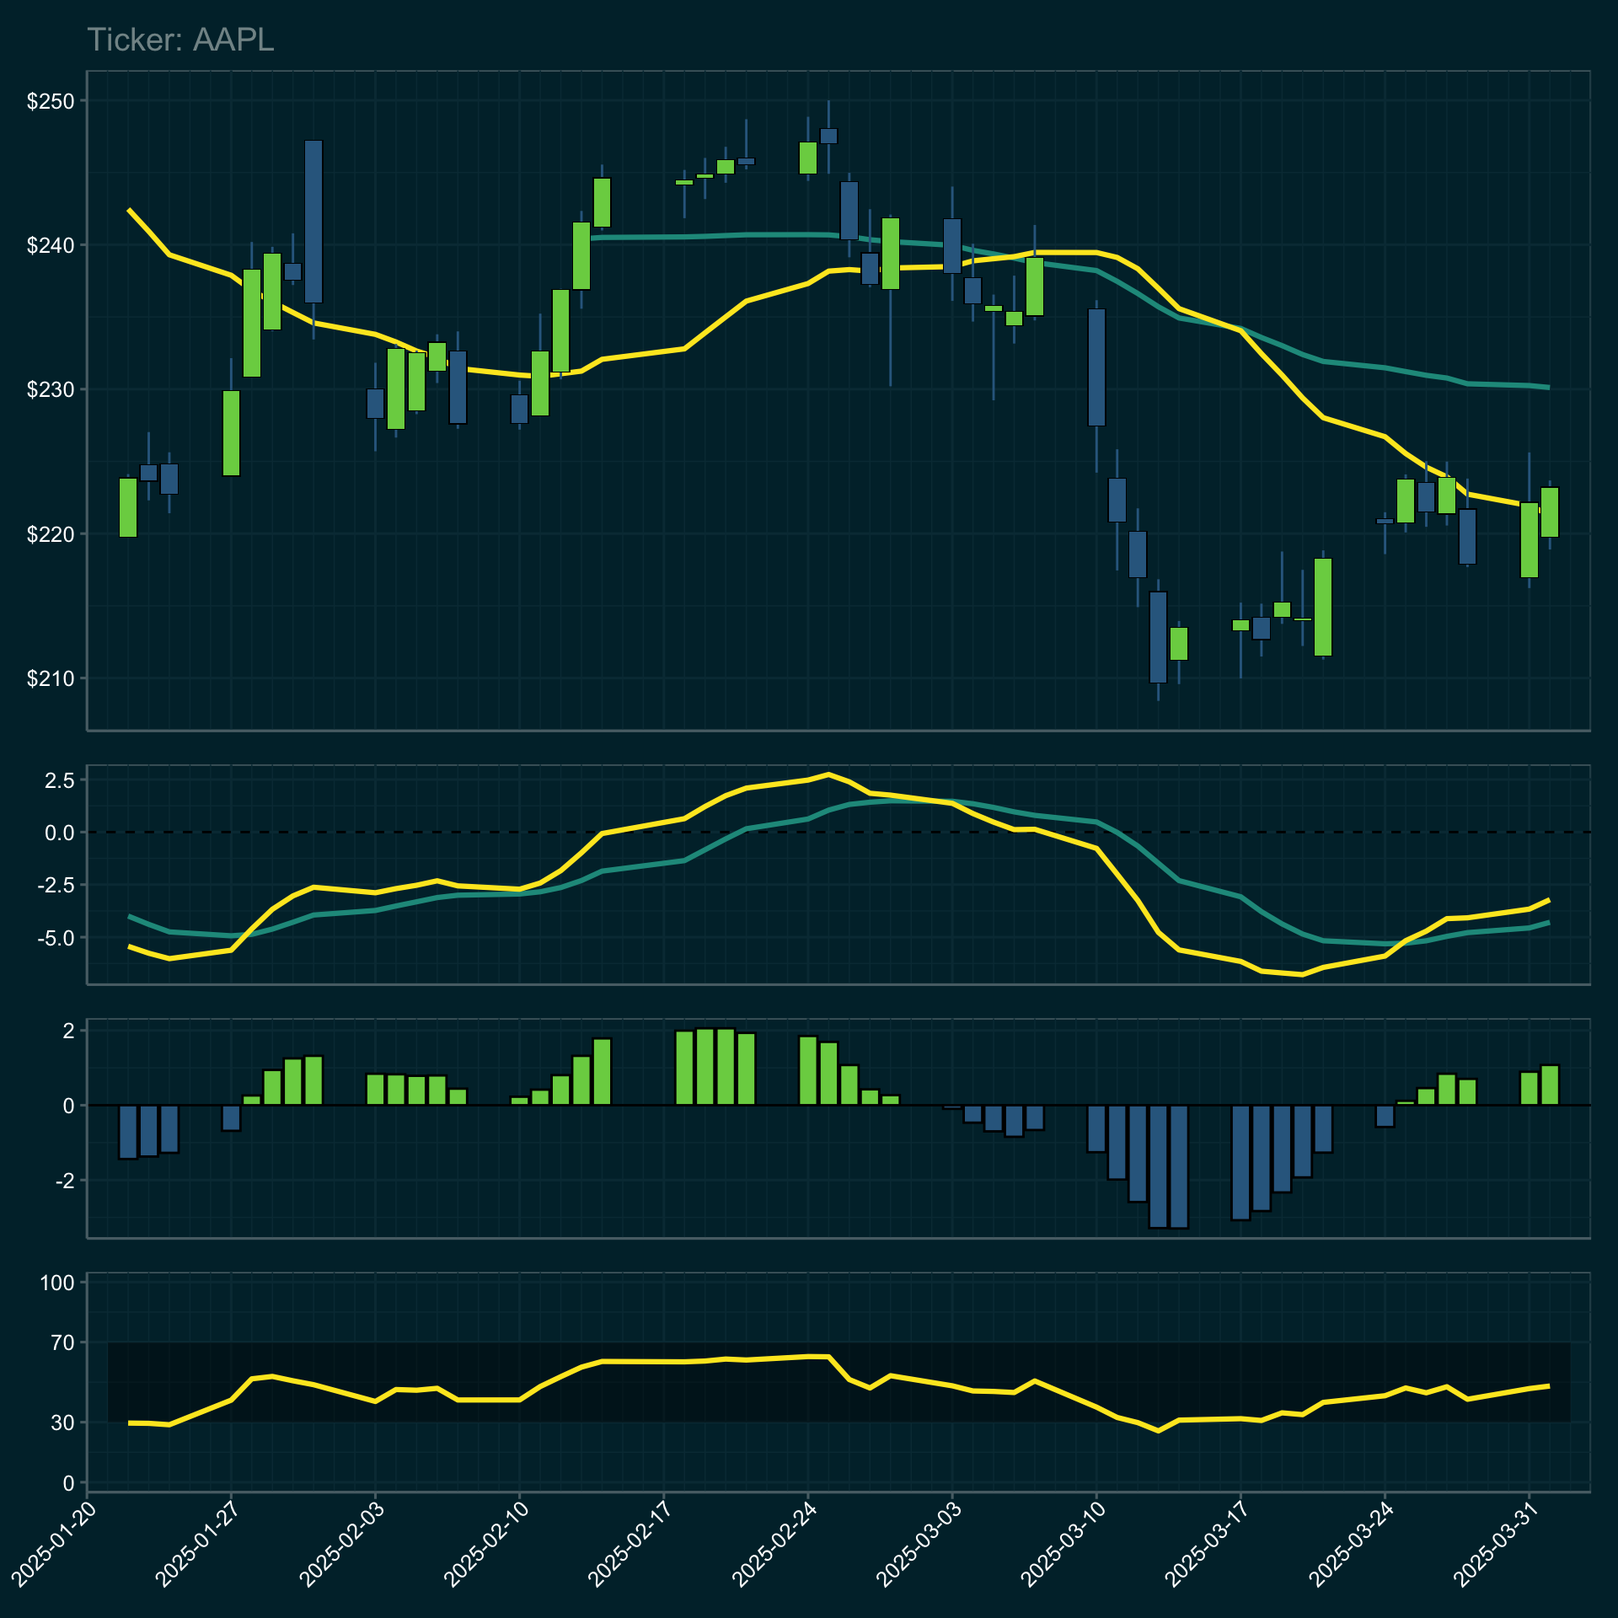
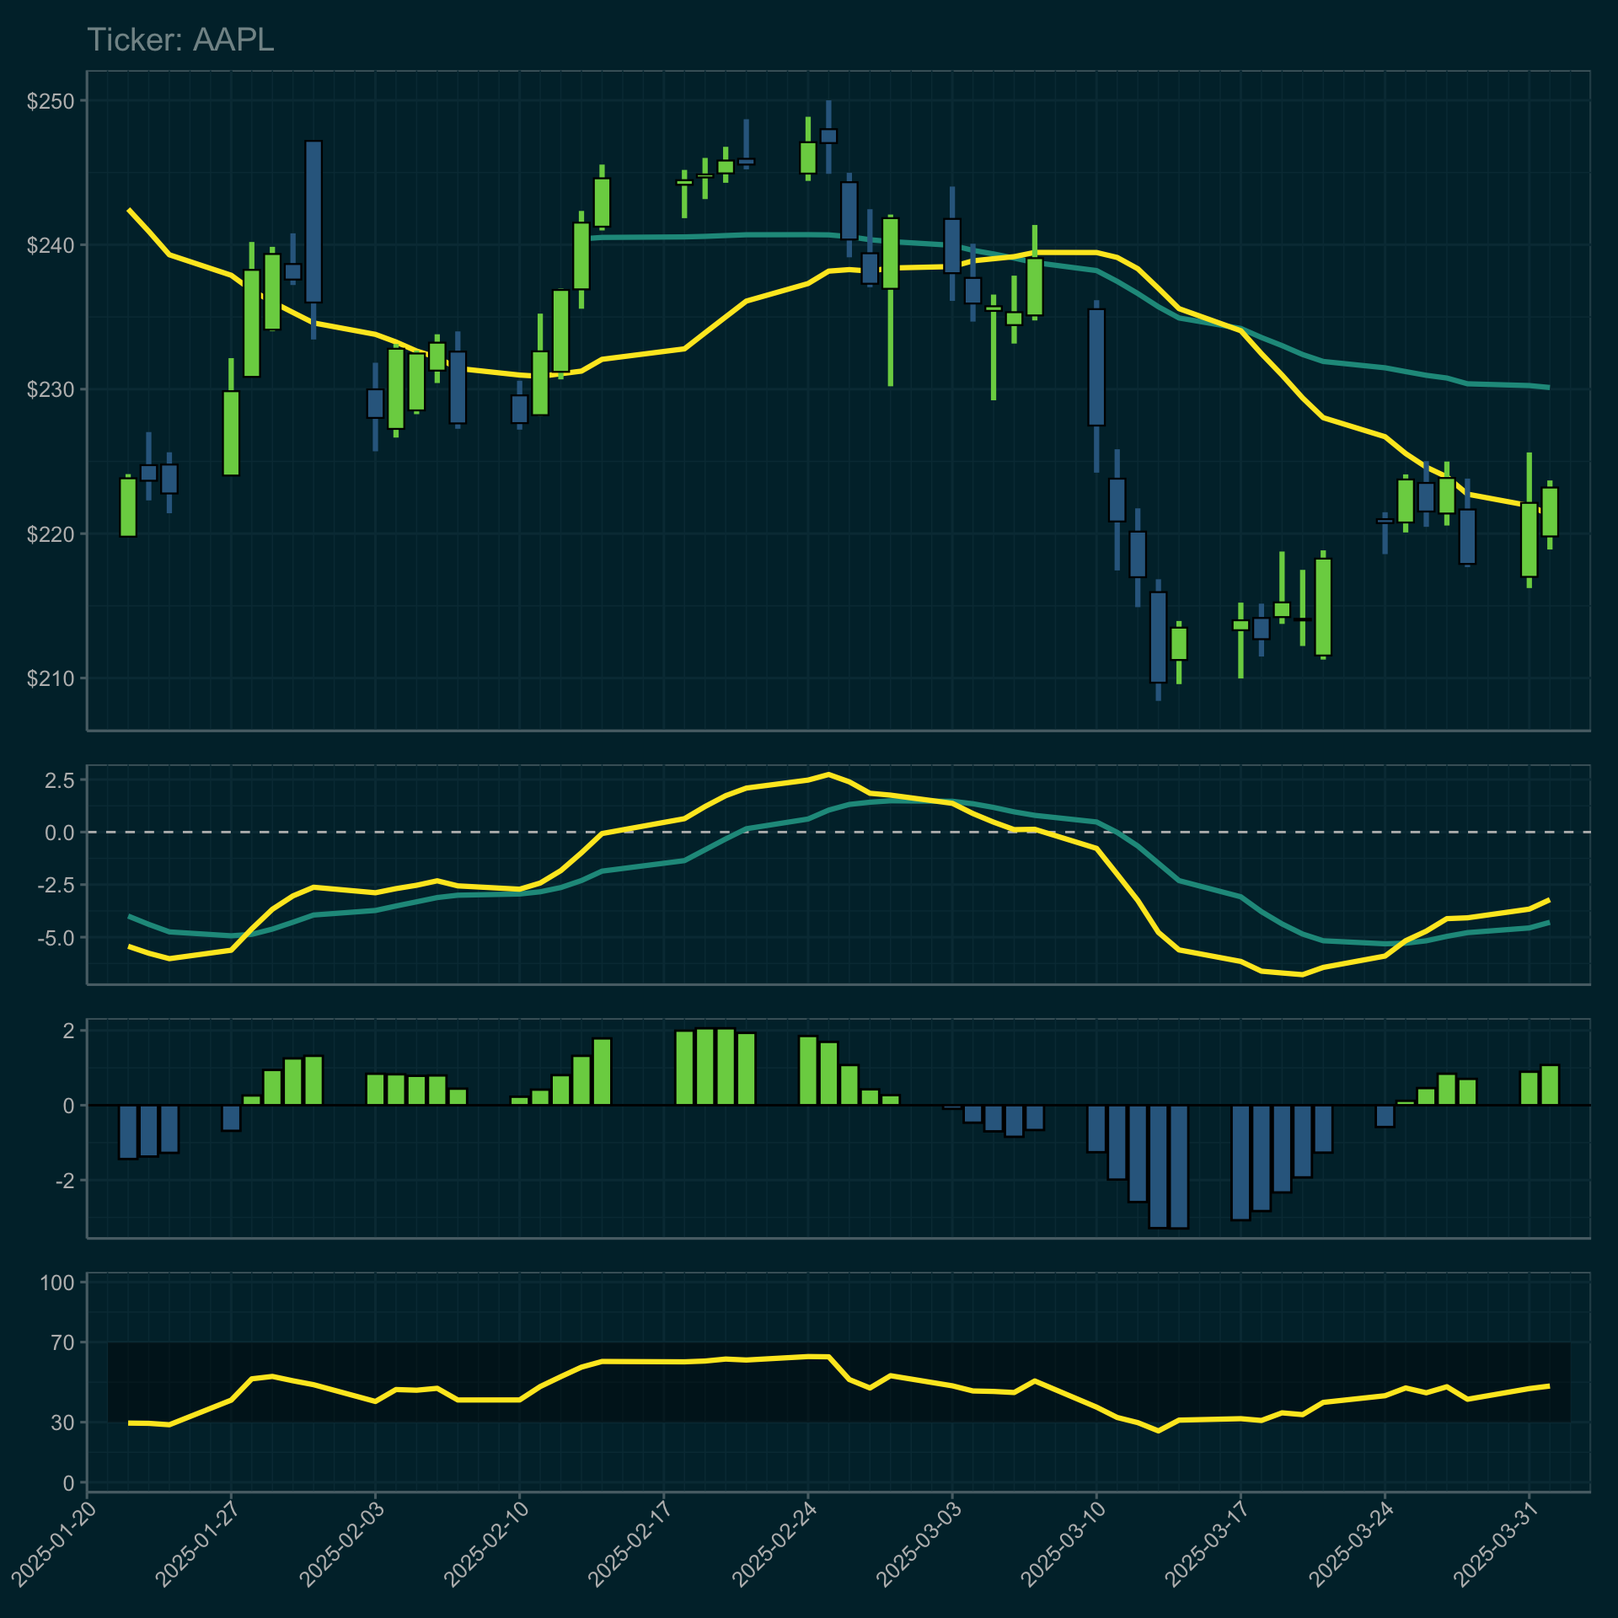
color updates

diff --git a/docs/posts/2025-04-01-Tech-Invest-Pipeline-Part1/index.html b/docs/posts/2025-04-01-Tech-Invest-Pipeline-Part1/index.html
@@ -384,7 +384,7 @@ pre > code.sourceCode > span > a:first-child::before { text-decoration: underlin
 <span id="cb4-12"><a href="#cb4-12" aria-hidden="true" tabindex="-1"></a>theme<span class="ot">&lt;-</span><span class="fu">theme_set</span>(<span class="fu">theme_solarized</span>(<span class="at">light=</span><span class="cn">FALSE</span>))<span class="sc">+</span></span>
 <span id="cb4-13"><a href="#cb4-13" aria-hidden="true" tabindex="-1"></a>    <span class="fu">theme_update</span>(</span>
 <span id="cb4-14"><a href="#cb4-14" aria-hidden="true" tabindex="-1"></a>        <span class="at">axis.text.x=</span><span class="fu">element_blank</span>(),<span class="at">axis.ticks.x=</span><span class="fu">element_blank</span>(),</span>
-<span id="cb4-15"><a href="#cb4-15" aria-hidden="true" tabindex="-1"></a>        <span class="at">axis.text.y=</span><span class="fu">element_text</span>(<span class="at">color=</span><span class="st">"#ffffff"</span>)</span>
+<span id="cb4-15"><a href="#cb4-15" aria-hidden="true" tabindex="-1"></a>        <span class="at">axis.text.y=</span><span class="fu">element_text</span>(<span class="at">color=</span><span class="st">"#bbbbbb"</span>)</span>
 <span id="cb4-16"><a href="#cb4-16" aria-hidden="true" tabindex="-1"></a>    )</span>
 <span id="cb4-17"><a href="#cb4-17" aria-hidden="true" tabindex="-1"></a></span>
 <span id="cb4-18"><a href="#cb4-18" aria-hidden="true" tabindex="-1"></a>g2<span class="ot">&lt;-</span><span class="fu">ggplot</span>(py<span class="sc">$</span>df,<span class="fu">aes</span>(<span class="at">x=</span><span class="fu">as_date</span>(date)))<span class="sc">+</span></span>
@@ -405,7 +405,7 @@ pre > code.sourceCode > span > a:first-child::before { text-decoration: underlin
 <span id="cb4-33"><a href="#cb4-33" aria-hidden="true" tabindex="-1"></a>l<span class="ot">&lt;-</span><span class="fu">layer_scales</span>(g2)<span class="sc">$</span>x<span class="sc">$</span>limits[[<span class="dv">1</span>]] <span class="sc">%&gt;%</span> <span class="fu">as_date</span>()</span>
 <span id="cb4-34"><a href="#cb4-34" aria-hidden="true" tabindex="-1"></a></span>
 <span id="cb4-35"><a href="#cb4-35" aria-hidden="true" tabindex="-1"></a>g1<span class="ot">&lt;-</span><span class="fu">ggplot</span>(py<span class="sc">$</span>df,<span class="fu">aes</span>(<span class="at">x=</span><span class="fu">as_date</span>(date)))<span class="sc">+</span></span>
-<span id="cb4-36"><a href="#cb4-36" aria-hidden="true" tabindex="-1"></a>    <span class="fu">geom_hline</span>(<span class="at">yintercept=</span><span class="dv">0</span>,<span class="at">linetype=</span><span class="dv">2</span>,<span class="at">linewidth=</span>.<span class="dv">5</span>)<span class="sc">+</span></span>
+<span id="cb4-36"><a href="#cb4-36" aria-hidden="true" tabindex="-1"></a>    <span class="fu">geom_hline</span>(<span class="at">yintercept=</span><span class="dv">0</span>,<span class="at">linetype=</span><span class="dv">2</span>,<span class="at">linewidth=</span>.<span class="dv">5</span>,<span class="at">color=</span><span class="st">"#bbbbbb"</span>)<span class="sc">+</span></span>
 <span id="cb4-37"><a href="#cb4-37" aria-hidden="true" tabindex="-1"></a>    <span class="fu">geom_line</span>(<span class="fu">aes</span>(<span class="at">y=</span>signal),<span class="at">color=</span>coldline,<span class="at">linewidth=</span><span class="fl">1.1</span>)<span class="sc">+</span></span>
 <span id="cb4-38"><a href="#cb4-38" aria-hidden="true" tabindex="-1"></a>    <span class="fu">geom_line</span>(<span class="fu">aes</span>(<span class="at">y=</span>MACD),<span class="at">color=</span>hotline,<span class="at">linewidth=</span><span class="fl">1.1</span>)<span class="sc">+</span></span>
 <span id="cb4-39"><a href="#cb4-39" aria-hidden="true" tabindex="-1"></a>    <span class="fu">scale_x_date</span>(</span>
@@ -420,7 +420,7 @@ pre > code.sourceCode > span > a:first-child::before { text-decoration: underlin
 <span id="cb4-48"><a href="#cb4-48" aria-hidden="true" tabindex="-1"></a></span>
 <span id="cb4-49"><a href="#cb4-49" aria-hidden="true" tabindex="-1"></a>g3<span class="ot">&lt;-</span><span class="fu">ggplot</span>(py<span class="sc">$</span>df,<span class="fu">aes</span>(<span class="at">x=</span><span class="fu">as_date</span>(date)))<span class="sc">+</span></span>
 <span id="cb4-50"><a href="#cb4-50" aria-hidden="true" tabindex="-1"></a>    <span class="fu">theme_update</span>(</span>
-<span id="cb4-51"><a href="#cb4-51" aria-hidden="true" tabindex="-1"></a>        <span class="at">axis.text.x=</span><span class="fu">element_text</span>(<span class="at">angle=</span><span class="dv">45</span>,<span class="at">hjust=</span><span class="dv">1</span>,<span class="at">vjust=</span><span class="dv">1</span>,<span class="at">color=</span><span class="st">"#ffffff"</span>),</span>
+<span id="cb4-51"><a href="#cb4-51" aria-hidden="true" tabindex="-1"></a>        <span class="at">axis.text.x=</span><span class="fu">element_text</span>(<span class="at">angle=</span><span class="dv">45</span>,<span class="at">hjust=</span><span class="dv">1</span>,<span class="at">vjust=</span><span class="dv">1</span>,<span class="at">color=</span><span class="st">"#bbbbbb"</span>),</span>
 <span id="cb4-52"><a href="#cb4-52" aria-hidden="true" tabindex="-1"></a>        <span class="at">axis.ticks.x=</span><span class="fu">element_line</span>(),</span>
 <span id="cb4-53"><a href="#cb4-53" aria-hidden="true" tabindex="-1"></a>    )<span class="sc">+</span></span>
 <span id="cb4-54"><a href="#cb4-54" aria-hidden="true" tabindex="-1"></a>    <span class="fu">annotate</span>(<span class="at">geom=</span><span class="st">"rect"</span>,<span class="at">fill=</span><span class="st">"#000000"</span>,<span class="at">xmin=</span>l,<span class="at">xmax=</span>u,<span class="at">ymin=</span><span class="dv">30</span>,<span class="at">ymax=</span><span class="dv">70</span>,<span class="at">alpha=</span><span class="fl">0.4</span>)<span class="sc">+</span></span>
@@ -442,37 +442,39 @@ pre > code.sourceCode > span > a:first-child::before { text-decoration: underlin
 <span id="cb4-70"><a href="#cb4-70" aria-hidden="true" tabindex="-1"></a>p<span class="ot">&lt;-</span><span class="fu">ggplot</span>(py<span class="sc">$</span>df,<span class="fu">aes</span>(<span class="at">x=</span><span class="fu">as_date</span>(date)))<span class="sc">+</span></span>
 <span id="cb4-71"><a href="#cb4-71" aria-hidden="true" tabindex="-1"></a>    <span class="fu">geom_line</span>(<span class="fu">aes</span>(<span class="at">y=</span>sma_l),<span class="at">color=</span>coldline,<span class="at">linewidth=</span><span class="fl">1.1</span>)<span class="sc">+</span></span>
 <span id="cb4-72"><a href="#cb4-72" aria-hidden="true" tabindex="-1"></a>    <span class="fu">geom_line</span>(<span class="fu">aes</span>(<span class="at">y=</span>sma_s),<span class="at">color=</span>hotline,<span class="at">linewidth=</span><span class="fl">1.1</span>)<span class="sc">+</span></span>
-<span id="cb4-73"><a href="#cb4-73" aria-hidden="true" tabindex="-1"></a>    <span class="fu">geom_linerange</span>(<span class="fu">aes</span>(<span class="at">ymax=</span>high,<span class="at">ymin=</span>low),<span class="at">color=</span>r)<span class="sc">+</span></span>
-<span id="cb4-74"><a href="#cb4-74" aria-hidden="true" tabindex="-1"></a>    <span class="fu">geom_tile</span>(</span>
-<span id="cb4-75"><a href="#cb4-75" aria-hidden="true" tabindex="-1"></a>        <span class="fu">aes</span>(</span>
-<span id="cb4-76"><a href="#cb4-76" aria-hidden="true" tabindex="-1"></a>            <span class="at">y=</span>candle_mid,</span>
-<span id="cb4-77"><a href="#cb4-77" aria-hidden="true" tabindex="-1"></a>            <span class="at">height=</span>(candle_high<span class="sc">-</span>candle_low)<span class="sc">+</span>.<span class="dv">14</span>,</span>
-<span id="cb4-78"><a href="#cb4-78" aria-hidden="true" tabindex="-1"></a>            <span class="at">width=</span>.<span class="dv">94</span>,</span>
-<span id="cb4-79"><a href="#cb4-79" aria-hidden="true" tabindex="-1"></a>        ),</span>
-<span id="cb4-80"><a href="#cb4-80" aria-hidden="true" tabindex="-1"></a>        <span class="at">fill=</span><span class="st">"#000000"</span>, </span>
-<span id="cb4-81"><a href="#cb4-81" aria-hidden="true" tabindex="-1"></a>    )<span class="sc">+</span></span>
+<span id="cb4-73"><a href="#cb4-73" aria-hidden="true" tabindex="-1"></a>    <span class="fu">geom_linerange</span>(<span class="fu">aes</span>(<span class="at">ymax=</span>high,<span class="at">ymin=</span>low,<span class="at">color=</span><span class="fu">factor</span>(candle_color)),<span class="at">linewidth=</span><span class="fl">1.1</span>)<span class="sc">+</span></span>
+<span id="cb4-74"><a href="#cb4-74" aria-hidden="true" tabindex="-1"></a>    <span class="co"># geom_tile(</span></span>
+<span id="cb4-75"><a href="#cb4-75" aria-hidden="true" tabindex="-1"></a>    <span class="co">#     aes(</span></span>
+<span id="cb4-76"><a href="#cb4-76" aria-hidden="true" tabindex="-1"></a>    <span class="co">#         y=candle_mid,</span></span>
+<span id="cb4-77"><a href="#cb4-77" aria-hidden="true" tabindex="-1"></a>    <span class="co">#         height=(candle_high-candle_low)+.2,</span></span>
+<span id="cb4-78"><a href="#cb4-78" aria-hidden="true" tabindex="-1"></a>    <span class="co">#         width=1,</span></span>
+<span id="cb4-79"><a href="#cb4-79" aria-hidden="true" tabindex="-1"></a>    <span class="co">#     ),</span></span>
+<span id="cb4-80"><a href="#cb4-80" aria-hidden="true" tabindex="-1"></a>    <span class="co">#     fill="#000000", </span></span>
+<span id="cb4-81"><a href="#cb4-81" aria-hidden="true" tabindex="-1"></a>    <span class="co"># )+</span></span>
 <span id="cb4-82"><a href="#cb4-82" aria-hidden="true" tabindex="-1"></a>    <span class="fu">geom_tile</span>(</span>
 <span id="cb4-83"><a href="#cb4-83" aria-hidden="true" tabindex="-1"></a>        <span class="fu">aes</span>(</span>
 <span id="cb4-84"><a href="#cb4-84" aria-hidden="true" tabindex="-1"></a>            <span class="at">y=</span>candle_mid,</span>
 <span id="cb4-85"><a href="#cb4-85" aria-hidden="true" tabindex="-1"></a>            <span class="at">height=</span>candle_high<span class="sc">-</span>candle_low,</span>
-<span id="cb4-86"><a href="#cb4-86" aria-hidden="true" tabindex="-1"></a>            <span class="at">width=</span>.<span class="dv">8</span>,</span>
-<span id="cb4-87"><a href="#cb4-87" aria-hidden="true" tabindex="-1"></a>            <span class="at">fill=</span><span class="fu">factor</span>(candle_color),</span>
-<span id="cb4-88"><a href="#cb4-88" aria-hidden="true" tabindex="-1"></a>        ),</span>
-<span id="cb4-89"><a href="#cb4-89" aria-hidden="true" tabindex="-1"></a>    )<span class="sc">+</span></span>
-<span id="cb4-90"><a href="#cb4-90" aria-hidden="true" tabindex="-1"></a>    <span class="fu">scale_x_date</span>(</span>
-<span id="cb4-91"><a href="#cb4-91" aria-hidden="true" tabindex="-1"></a>        <span class="at">limits=</span><span class="fu">c</span>(l,u),</span>
-<span id="cb4-92"><a href="#cb4-92" aria-hidden="true" tabindex="-1"></a>        <span class="at">date_breaks=</span><span class="st">"1 week"</span>,</span>
-<span id="cb4-93"><a href="#cb4-93" aria-hidden="true" tabindex="-1"></a>        <span class="at">date_minor_breaks=</span><span class="st">"1 day"</span>,</span>
-<span id="cb4-94"><a href="#cb4-94" aria-hidden="true" tabindex="-1"></a>        <span class="at">expand=</span><span class="fu">expansion</span>(<span class="at">add=</span><span class="dv">1</span>),</span>
-<span id="cb4-95"><a href="#cb4-95" aria-hidden="true" tabindex="-1"></a>    )<span class="sc">+</span></span>
-<span id="cb4-96"><a href="#cb4-96" aria-hidden="true" tabindex="-1"></a>    <span class="fu">scale_fill_manual</span>(<span class="at">values=</span><span class="fu">c</span>(r,bg))<span class="sc">+</span></span>
-<span id="cb4-97"><a href="#cb4-97" aria-hidden="true" tabindex="-1"></a>    <span class="fu">scale_color_manual</span>(<span class="at">values=</span><span class="fu">c</span>(r,bg))<span class="sc">+</span></span>
-<span id="cb4-98"><a href="#cb4-98" aria-hidden="true" tabindex="-1"></a>    <span class="fu">scale_y_continuous</span>(<span class="at">labels=</span>scales<span class="sc">::</span>dollar)<span class="sc">+</span></span>
-<span id="cb4-99"><a href="#cb4-99" aria-hidden="true" tabindex="-1"></a>    <span class="fu">labs</span>(<span class="at">y=</span><span class="cn">NULL</span>,<span class="at">x=</span><span class="cn">NULL</span>)<span class="sc">+</span></span>
-<span id="cb4-100"><a href="#cb4-100" aria-hidden="true" tabindex="-1"></a>    <span class="fu">ggtitle</span>(<span class="fu">str_glue</span>(<span class="st">"Ticker: {params$ticker}"</span>))<span class="sc">+</span></span>
-<span id="cb4-101"><a href="#cb4-101" aria-hidden="true" tabindex="-1"></a>    <span class="fu">guides</span>(<span class="at">color=</span><span class="st">"none"</span>,<span class="at">fill=</span><span class="st">"none"</span>)</span>
-<span id="cb4-102"><a href="#cb4-102" aria-hidden="true" tabindex="-1"></a></span>
-<span id="cb4-103"><a href="#cb4-103" aria-hidden="true" tabindex="-1"></a>p <span class="sc">/</span> g1 <span class="sc">/</span> g2 <span class="sc">/</span> g3 <span class="sc">+</span> <span class="fu">plot_layout</span>(<span class="at">nrow=</span><span class="dv">4</span>,<span class="at">heights=</span><span class="fu">c</span>(<span class="dv">3</span>,<span class="dv">1</span>,<span class="dv">1</span>,<span class="dv">1</span>))</span></code><button title="Copy to Clipboard" class="code-copy-button"><i class="bi"></i></button></pre></div>
+<span id="cb4-86"><a href="#cb4-86" aria-hidden="true" tabindex="-1"></a>            <span class="at">fill=</span><span class="fu">factor</span>(candle_color),</span>
+<span id="cb4-87"><a href="#cb4-87" aria-hidden="true" tabindex="-1"></a>        ),</span>
+<span id="cb4-88"><a href="#cb4-88" aria-hidden="true" tabindex="-1"></a>        <span class="at">width=</span>.<span class="dv">8</span>,</span>
+<span id="cb4-89"><a href="#cb4-89" aria-hidden="true" tabindex="-1"></a>        <span class="at">linewidth=</span>.<span class="dv">4</span>,</span>
+<span id="cb4-90"><a href="#cb4-90" aria-hidden="true" tabindex="-1"></a>        <span class="at">color=</span><span class="st">"#000000"</span>,</span>
+<span id="cb4-91"><a href="#cb4-91" aria-hidden="true" tabindex="-1"></a>    )<span class="sc">+</span></span>
+<span id="cb4-92"><a href="#cb4-92" aria-hidden="true" tabindex="-1"></a>    <span class="fu">scale_x_date</span>(</span>
+<span id="cb4-93"><a href="#cb4-93" aria-hidden="true" tabindex="-1"></a>        <span class="at">limits=</span><span class="fu">c</span>(l,u),</span>
+<span id="cb4-94"><a href="#cb4-94" aria-hidden="true" tabindex="-1"></a>        <span class="at">date_breaks=</span><span class="st">"1 week"</span>,</span>
+<span id="cb4-95"><a href="#cb4-95" aria-hidden="true" tabindex="-1"></a>        <span class="at">date_minor_breaks=</span><span class="st">"1 day"</span>,</span>
+<span id="cb4-96"><a href="#cb4-96" aria-hidden="true" tabindex="-1"></a>        <span class="at">expand=</span><span class="fu">expansion</span>(<span class="at">add=</span><span class="dv">1</span>),</span>
+<span id="cb4-97"><a href="#cb4-97" aria-hidden="true" tabindex="-1"></a>    )<span class="sc">+</span></span>
+<span id="cb4-98"><a href="#cb4-98" aria-hidden="true" tabindex="-1"></a>    <span class="fu">scale_fill_manual</span>(<span class="at">values=</span><span class="fu">c</span>(r,bg))<span class="sc">+</span></span>
+<span id="cb4-99"><a href="#cb4-99" aria-hidden="true" tabindex="-1"></a>    <span class="fu">scale_color_manual</span>(<span class="at">values=</span><span class="fu">c</span>(r,bg))<span class="sc">+</span></span>
+<span id="cb4-100"><a href="#cb4-100" aria-hidden="true" tabindex="-1"></a>    <span class="fu">scale_y_continuous</span>(<span class="at">labels=</span>scales<span class="sc">::</span>dollar)<span class="sc">+</span></span>
+<span id="cb4-101"><a href="#cb4-101" aria-hidden="true" tabindex="-1"></a>    <span class="fu">labs</span>(<span class="at">y=</span><span class="cn">NULL</span>,<span class="at">x=</span><span class="cn">NULL</span>)<span class="sc">+</span></span>
+<span id="cb4-102"><a href="#cb4-102" aria-hidden="true" tabindex="-1"></a>    <span class="fu">ggtitle</span>(<span class="fu">str_glue</span>(<span class="st">"Ticker: {params$ticker}"</span>))<span class="sc">+</span></span>
+<span id="cb4-103"><a href="#cb4-103" aria-hidden="true" tabindex="-1"></a>    <span class="fu">guides</span>(<span class="at">color=</span><span class="st">"none"</span>,<span class="at">fill=</span><span class="st">"none"</span>)</span>
+<span id="cb4-104"><a href="#cb4-104" aria-hidden="true" tabindex="-1"></a></span>
+<span id="cb4-105"><a href="#cb4-105" aria-hidden="true" tabindex="-1"></a>p <span class="sc">/</span> g1 <span class="sc">/</span> g2 <span class="sc">/</span> g3 <span class="sc">+</span> <span class="fu">plot_layout</span>(<span class="at">nrow=</span><span class="dv">4</span>,<span class="at">heights=</span><span class="fu">c</span>(<span class="dv">3</span>,<span class="dv">1</span>,<span class="dv">1</span>,<span class="dv">1</span>))</span></code><button title="Copy to Clipboard" class="code-copy-button"><i class="bi"></i></button></pre></div>
 <div class="cell-output-display">
 <div>
 <figure class="figure">

diff --git a/docs/posts.html b/docs/posts.html
@@ -198,7 +198,7 @@ window.Quarto = {
 
 <div class="quarto-listing quarto-listing-container-default" id="listing-listing">
 <div class="list quarto-listing-default">
-<div class="quarto-post image-right" data-index="0" data-categories="UiUyQ1B5dGhvbiUyQ0ludmVzdGluZw==" data-listing-date-sort="1743487200000" data-listing-file-modified-sort="1743615333219" data-listing-date-modified-sort="NaN" data-listing-reading-time-sort="9" data-listing-word-count-sort="1611">
+<div class="quarto-post image-right" data-index="0" data-categories="UiUyQ1B5dGhvbiUyQ0ludmVzdGluZw==" data-listing-date-sort="1743487200000" data-listing-file-modified-sort="1743621195702" data-listing-date-modified-sort="NaN" data-listing-reading-time-sort="9" data-listing-word-count-sort="1631">
 <div class="thumbnail">
 <p><a href="./posts/2025-04-01-Tech-Invest-Pipeline-Part1/index.html" class="no-external"></a></p><a href="./posts/2025-04-01-Tech-Invest-Pipeline-Part1/index.html" class="no-external">
 <p><img loading="lazy" src="./posts/2025-04-01-Tech-Invest-Pipeline-Part1/PReview.webp" class="thumbnail-image"></p>
